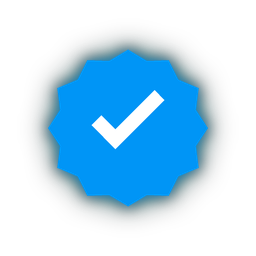
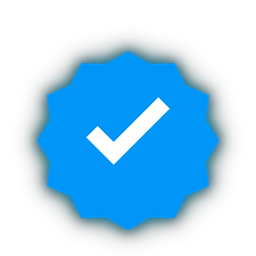
style(badge): Optically align verified blue tick directly level with Er.Adam Eehan and micro-reduce size to 24px

Changed region(s): [[0.0938, 0.3125, 0.9062, 0.9688], [0.3438, 0.3438, 0.6562, 0.6562], [0.2812, 0.1562, 0.7188, 0.3125]]

diff --git a/README.md b/README.md
@@ -6,7 +6,7 @@
   </a>
 </p>
 
-# Er.Adam Eehan <img src="assets/verified.png" width="32" height="32" alt="Verified" title="Meta Verified Creator & Founder" />
+# Er.Adam Eehan <img src="assets/verified.png" width="24" height="24" alt="Verified" title="Meta Verified Creator & Founder" />
 ### 🚀 Founder & CEO, Aira Group of Technology
 **Creator of AiraLang & AIRA AI • Systems & AI Architect • Cybersecurity Researcher**
 
